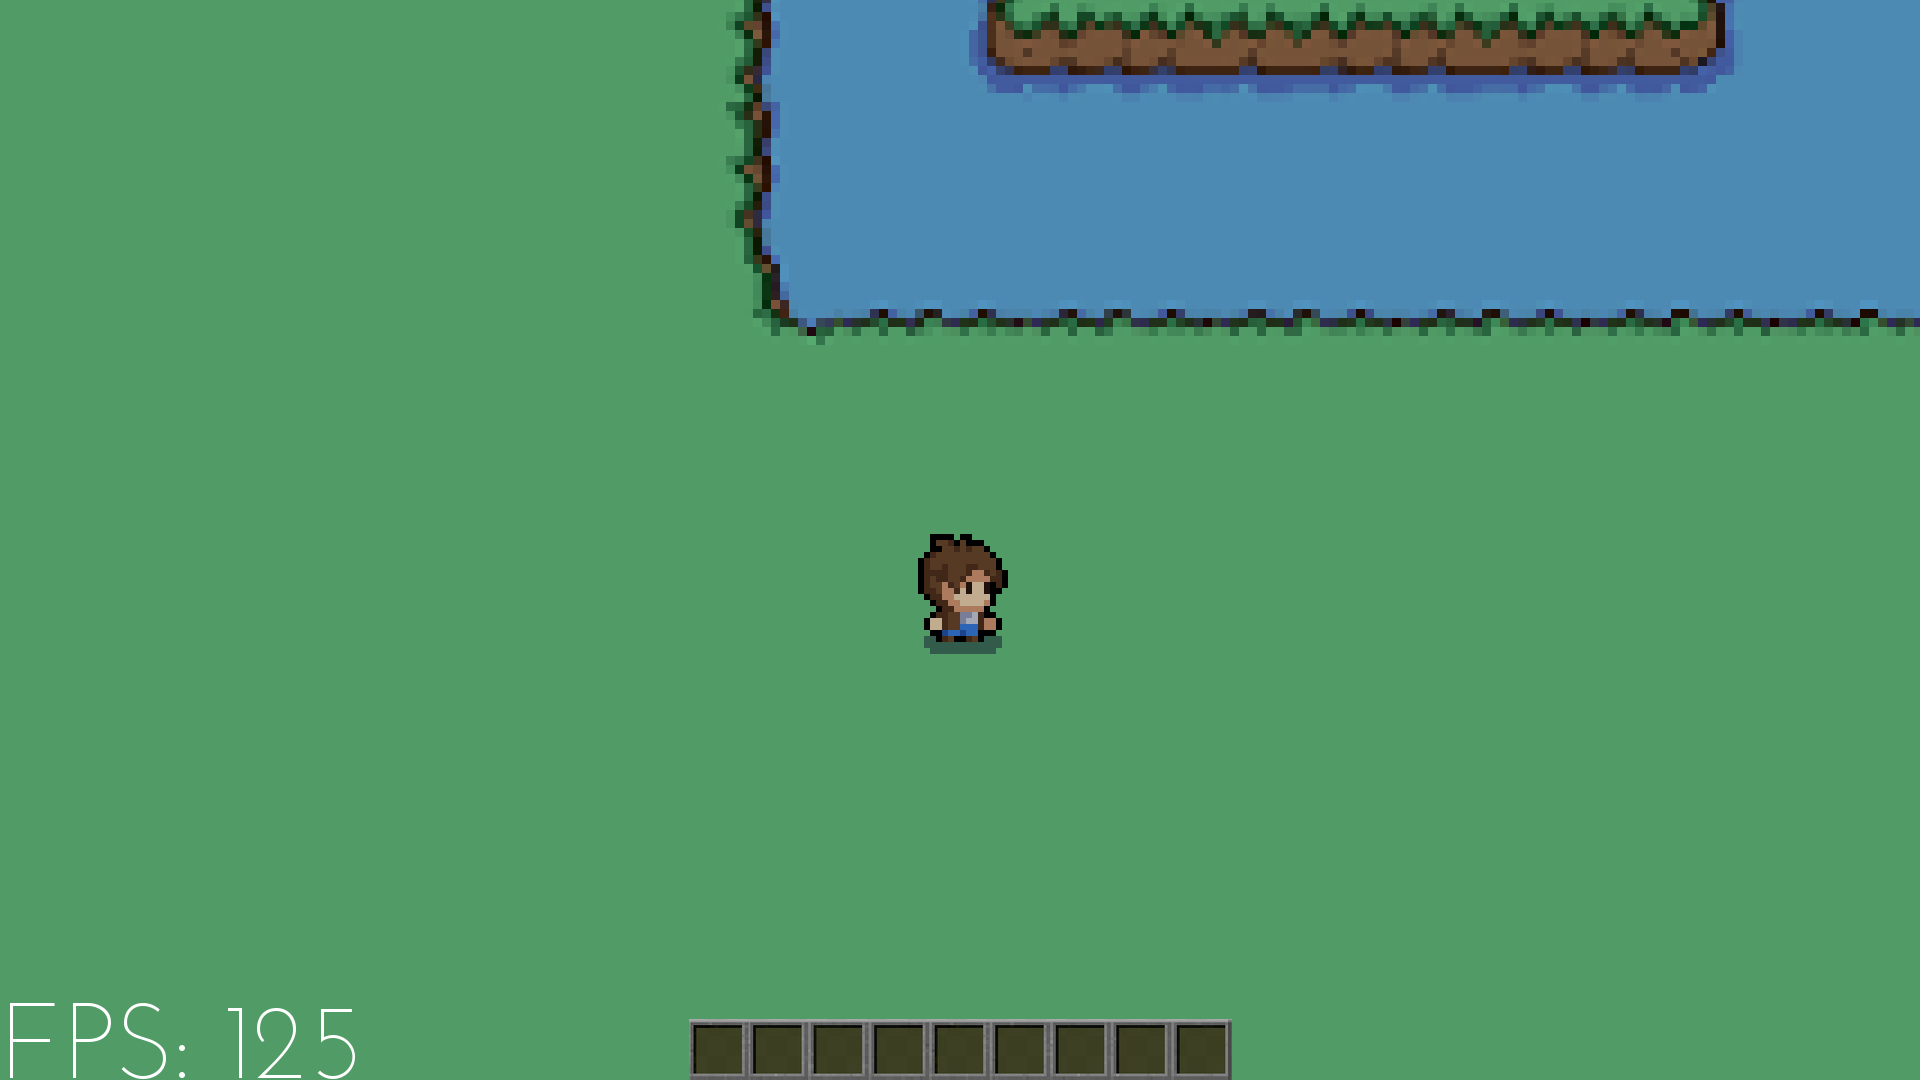
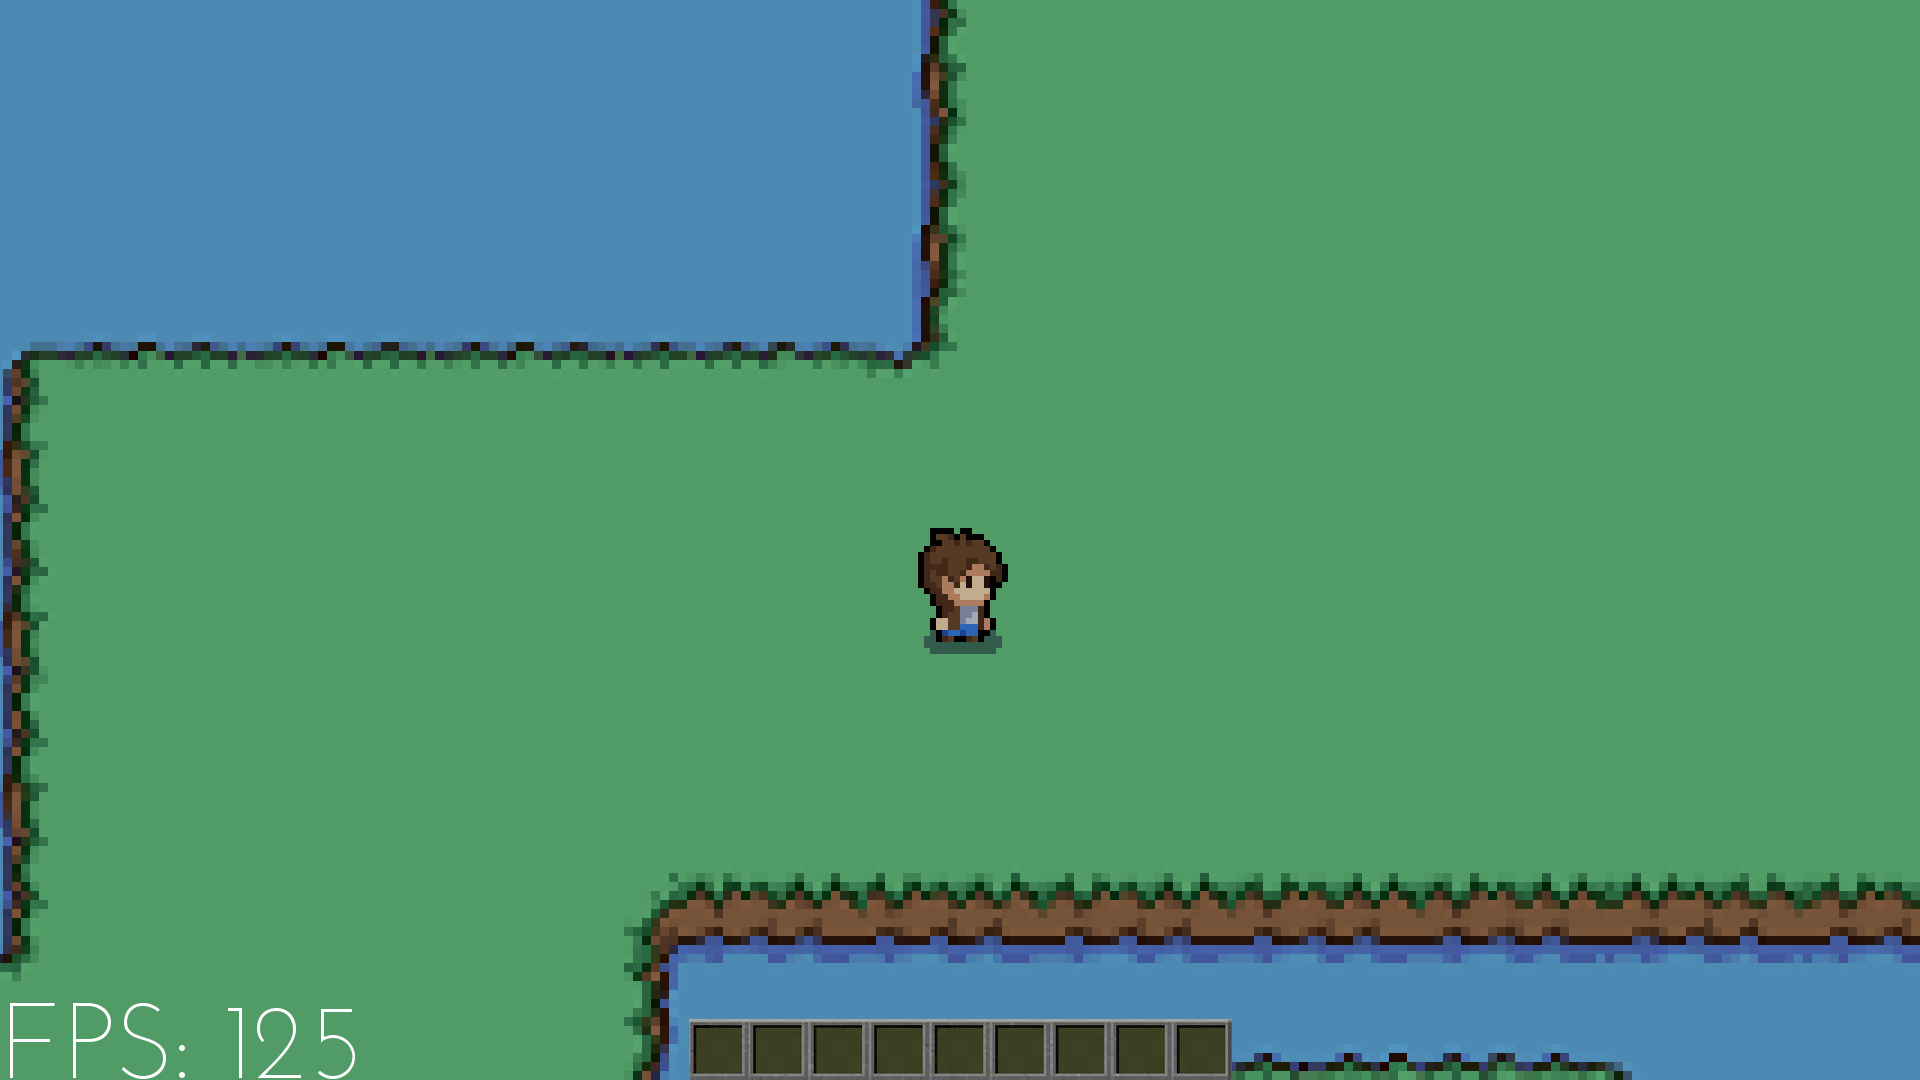
[+] add environment with rain [~] fix collision

diff --git a/main.c b/main.c
@@ -6,10 +6,12 @@
 */
 
 #include "include/rpg.h"
+#include <time.h>
 
 void load_screen(sfRenderWindow *window)
 {
-    sfSprite *sprite = sfSprite_create();
+    srand((unsigned) time(NULL));
+    /*sfSprite *sprite = sfSprite_create();
     sfIntRect rect = create_rect(1080, 720, 0, 0);
     sfTexture *t =
         sfTexture_createFromFile("./assets/logo.png", &rect);
@@ -17,7 +19,31 @@ void load_screen(sfRenderWindow *window)
     sfRenderWindow_drawSprite(window, sprite, NULL);
     sfRenderWindow_display(window);
     sfSprite_destroy(sprite);
-    sfTexture_destroy(t);
+    sfTexture_destroy(t);*/
+    sfVertexArray *a = sfVertexArray_create();
+    sfVertexArray_setPrimitiveType(a, sfLines);
+    for (int i = 0; i < 100; ++i) {
+        sfVertex v;
+        v.color = sfBlue;
+        v.texCoords = create_vector2f(rand() % 1920, rand() % 1080);
+        v.position = v.texCoords;
+        sfVertexArray_append(a, v);
+        v.position.y += 5;
+        sfVertexArray_append(a, v);
+
+    }
+    while (1) {
+        sfRenderWindow_clear(window, sfBlack);
+        for (size_t i = 0; i < sfVertexArray_getVertexCount(a); ++i) {
+            sfVertex *v = sfVertexArray_getVertex(a, i);
+            v->position.y += 0.08;
+            if (v->position.y > 1080) {
+                v->position.y = 0;
+            }
+        }
+        sfRenderWindow_drawVertexArray(window, a, NULL);
+        sfRenderWindow_display(window);
+    }
 }
 
 void start(screen *hub)
@@ -61,7 +87,7 @@ int main(int argc, char **argv)
     sfRenderWindow_setIcon(hub->window, sfImage_getSize(icon).x,
         sfImage_getSize(icon).y,
         sfImage_getPixelsPtr(icon));
-    load_screen(hub->window);
+    //load_screen(hub->window);
     screen_manager(hub);
     start(hub);
     sfImage_destroy(icon);

diff --git a/utils/collision.c b/utils/collision.c
@@ -7,27 +7,27 @@
 
 #include "../include/rpg.h"
 
-sfVector2f get_direction(sfUint32 *radar)
+sfVector2f get_direction(sfUint32 *radar, maps *m)
 {
     if (radar[0] != radar[7]) {
         if (radar[3] != radar[7])
-            return create_vector2f(0, -30);
+            return create_vector2f(0, -(m->speed));
         if (radar[2] != radar[7])
-            return create_vector2f(-30, 0);
-        return create_vector2f(-30, -30);
+            return create_vector2f(-(m->speed), 0);
+        return create_vector2f(-(m->speed), -(m->speed));
     }
     if (radar[3] != radar[7]) {
         if (radar[5] != radar[7])
-            return create_vector2f(30, 0);
-        return create_vector2f(30, -30);
+            return create_vector2f((m->speed), 0);
+        return create_vector2f((m->speed), -(m->speed));
     }
     if (radar[2] != radar[7]) {
         if (radar[5] != radar[7])
-            return create_vector2f(0, 30);
-        return create_vector2f(-30, 30);
+            return create_vector2f(0, (m->speed));
+        return create_vector2f(-(m->speed), (m->speed));
     }
     if (radar[5] != radar[7])
-        return create_vector2f(30, 30);
+        return create_vector2f((m->speed), (m->speed));
     return create_vector2f(0, 0);
 }
 
@@ -49,7 +49,7 @@ void collision_map(scene *s, game_obj *g)
         top_left, middle_left, bottom_left, top_right, middle_right,
         bottom_right, bottom_middle, green, 0
     };
-    sfSprite_move(g->sprite, get_direction(all));
+    sfSprite_move(g->sprite, get_direction(all, get_object(s, "maps")->data));
     sfImage_destroy(i);
     sfTexture_destroy(texture);
 }

diff --git a/environment/rain.c b/environment/rain.c
@@ -1,0 +1,53 @@
+/*
+** EPITECH PROJECT, 2021
+** MyRPG - environment
+** File description:
+** environment rain for scene
+*/
+
+#include "../include/rpg.h"
+
+void animate_rain(scene *d, environment *e)
+{
+    e->time = sfClock_getElapsedTime(e->clock);
+    float seconds = sfTime_asSeconds(e->time);
+    float old_seconds = sfTime_asSeconds(e->old_time);
+    if (seconds - old_seconds >= 90) {
+        d->env_type = NONE;
+        return;
+    }
+    for (size_t i = 0; i < sfVertexArray_getVertexCount(e->array); ++i) {
+        sfVertex *v = sfVertexArray_getVertex(e->array, i);
+        v->position.y += 10;
+        if (v->position.y > 1080) {
+            v->position.y = 0;
+        }
+    }
+}
+
+void create_rain_env(scene *d)
+{
+    environment *env = malloc(sizeof(environment));
+    env->type = RAIN;
+    env->clock = sfClock_create();
+    env->time = sfTime_Zero;
+    env->old_time = sfClock_getElapsedTime(env->clock);
+    env->array = sfVertexArray_create();
+    sfVertexArray_setPrimitiveType(env->array, sfQuads);
+    for (int i = 0; i < 100; ++i) {
+        sfVertex v;
+        v.color = sfBlue;
+        v.texCoords = create_vector2f(rand() % 1920, rand() % 1080);
+        v.position = v.texCoords;
+        sfVertexArray_append(env->array, v);
+        v.position.y += 5;
+        sfVertexArray_append(env->array, v);
+        v.position.y -= 5;
+        v.position.x += 5;
+        sfVertexArray_append(env->array, v);
+        v.position.y += 5;
+        sfVertexArray_append(env->array, v);
+    }
+    env->animate = animate_rain;
+    put_in_list(&d->envs, env);
+}

diff --git a/sprites/player/player_particle.c b/sprites/player/player_particle.c
@@ -1,0 +1,52 @@
+/*
+** EPITECH PROJECT, 2021
+** MyRPG - Player particle
+** File description:
+** player particle functions
+*/
+
+#include "../../include/rpg.h"
+
+void animate_particle(scene *s, particle *p)
+{
+    game_obj *d = get_object(s, "player");
+    player *f = (player *)d->data;
+    sfIntRect r = sfSprite_getTextureRect(p->sprite);
+
+    if (r.left > (16 * 2)) {
+        put_in_list(&f->particles, create_particle(s));
+        return;
+    }
+    r.left += r.width;
+    sfSprite_setTextureRect(p->sprite, r);
+    p->state++;
+}
+
+void animate_all_particles(scene *s, player *p)
+{
+    node *tmp = p->particles;
+    particle *par = NULL;
+    while (tmp != NULL) {
+        par = (particle *)tmp->data;
+        par->animate(s, par);
+        tmp = tmp->next;
+    }
+}
+
+particle *create_particle(scene *d)
+{
+    particle *p = malloc(sizeof(particle));
+    game_obj *g = get_object(d, "player");
+    sfVector2f v = sfSprite_getPosition(g->sprite);
+
+    v.y += g->rect.height * sfSprite_getScale(g->sprite).y;
+    p->texture = get_texture(d, "particle")->texture;
+    p->sprite = sfSprite_create();
+    p->state = 0;
+    p->animate = animate_particle;
+    set_scale(d, p->sprite, 10);
+    sfSprite_setPosition(p->sprite, v);
+    sfSprite_setTexture(p->sprite, p->texture, sfTrue);
+    sfSprite_setTextureRect(p->sprite, create_simple_rect(16,12));
+    return p;
+}

diff --git a/include/game_obj_type.h b/include/game_obj_type.h
@@ -38,12 +38,20 @@ typedef struct {
     float speed;
 } maps;
 
+typedef struct particle_s{
+    sfSprite *sprite;
+    sfTexture *texture;
+    void (*animate)(scene  *, struct particle_s *p);
+    int state;
+} particle;
+
 typedef struct {
     sfTime time;
     sfTime old_time_an;
     entity_state state;
     double animation_speed;
     game_obj *inv;
+    node *particles;
     void (*idle)(scene *, game_obj *);
     void (*move)(scene *, game_obj *);
     void (*jump)(scene *, game_obj *);
@@ -79,5 +87,6 @@ void hit_animate_slime(scene *d, game_obj *g);
 void move_animate_slime(scene *d, game_obj *g);
 void jump_animate_slime(scene *d, game_obj *g);
 void idle_animate_slime(scene *d, game_obj *g);
+particle *create_particle(scene *d);
 
 #endif

diff --git a/textures/characters/particle.c b/textures/characters/particle.c
@@ -1,18 +1,18 @@
 /*
-** EPITECH PROJECT, 2022
-** MyRPG
+** EPITECH PROJECT, 2021
+** MyRPG - texture
 ** File description:
-** particules
+** create partlicle texture
 */
 
-#include "../include/rpg.h"
+#include "../../include/rpg.h"
 
-void create_particles_texture(scene *d)
+void create_particle_texture(scene *d)
 {
     texture *t = malloc(sizeof(texture));
     t->filename = "./assets/particles/move.png";
-    t->name = "dust_particles1";
-    t->rect = create_rect(48, 12, 0, 0);
+    t->name = "particle";
+    t->rect = create_simple_rect(48, 12);
     t->texture = sfTexture_createFromFile(t->filename, &t->rect);
     put_in_list(&d->textures, t);
 }

diff --git a/manager/env_manager.c b/manager/env_manager.c
@@ -1,0 +1,30 @@
+/*
+** EPITECH PROJECT, 2021
+** MyRPG - manager
+** File description:
+** manager 
+*/
+
+#include "../include/rpg.h"
+
+environment *get_env(scene *d, env_type type)
+{
+    node *tmp = d->envs;
+    environment *env = NULL;
+    while (tmp != NULL) {
+        env = (environment *)tmp->data;
+        if (env->type == type)
+            return env;
+        tmp = tmp->next;
+    }
+    return NULL;
+}
+
+void env_manager(scene *d)
+{
+    environment *env = get_env(d, d->env_type);
+    if (env != NULL) {
+        env->animate(d, env);
+        sfRenderWindow_drawVertexArray(d->hub->window, env->array, NULL);
+    }
+}

diff --git a/include/struct.h b/include/struct.h
@@ -41,13 +41,24 @@ typedef struct life_bar_s {
     int percent;
 } life_bar;
 
+typedef struct env_s {
+    sfVertexArray *array;
+    sfClock *clock;
+    void (*animate)(scene *d, struct env_s *e);
+    sfTime time;
+    sfTime old_time;
+    env_type type;
+} environment;
+
 typedef struct scene_s {
     node *objs;
     node *texts;
+    node *envs;
     node *sounds;
     node *textures;
     state state;
     screen *hub;
+    env_type env_type;
     void (*screen)(scene *data);
     void (*active)(scene *old, scene *new);
     void (*event)(scene *data, sfEvent event);

diff --git a/sprites/player/player.c b/sprites/player/player.c
@@ -65,7 +65,7 @@ player *create_player_data(scene *d)
     data->hit = hit_player_animation;
     data->animation_speed = 0.15;
     data->inv = create_inventory(d);
-    put_in_end(&d->objs, data->inv);
+    data->particles = NULL;
     return data;
 }
 
@@ -89,4 +89,6 @@ void create_player(scene *d)
     sfSprite_setTextureRect(hero->sprite, hero->rect);
     sfRenderWindow_drawSprite(d->hub->window, hero->sprite, NULL);
     put_in_end(&d->objs, hero);
+    put_in_list(&((player *)(hero->data))->particles, create_particle(d));
+
 }

diff --git a/screens/play_screen/play_screen.c b/screens/play_screen/play_screen.c
@@ -32,6 +32,7 @@ void play_screen(scene *data)
     move_manager(data);
     time_manager(data);
     text_manager(data);
+    env_manager(data);
 }
 
 void create_data_play(scene *d)
@@ -40,6 +41,8 @@ void create_data_play(scene *d)
     create_sprite_map(d);
     create_player(d);
     display_fps(d);
+    create_rain_env(d);
+    d->env_type = RAIN;
 }
 
 void active_play(scene *old, scene *new)

diff --git a/include/rpg.h b/include/rpg.h
@@ -75,5 +75,8 @@ sfVector2f create_vector2f(float x, float y);
 void data_chest(screen *screen1);
 game_obj *get_object(scene *d, char *name);
 void switch_scene(scene *d, state s);
+void animate_all_particles(scene *s, player *p);
+environment *get_env(scene *d, env_type type);
+void env_manager(scene *d);
 
 #endif

diff --git a/manager/texture_manager.c b/manager/texture_manager.c
@@ -47,6 +47,7 @@ void create_textures(scene *d)
     create_icon_ranking_texture(d);
     create_icon_settings_texture(d);
     create_icon_triangle_texture(d);
+    create_particle_texture(d);
     create_icon_trophy_texture(d);
     create_icon_twitter_texture(d);
     create_icon_watchad_texture(d);
